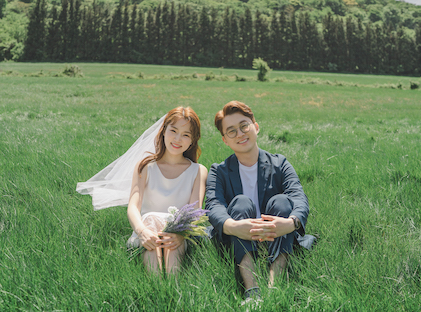
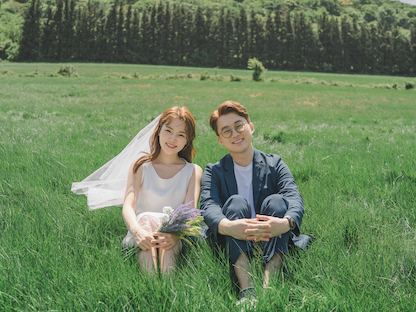
이미지 스케일링

diff --git a/index.html b/index.html
@@ -27,7 +27,7 @@
 </script>
 
 	</head>
-	<body class="is-preload">
+	<body class="is-preload" style="word-break:normal;">
 
 		<!-- Header -->
 			<div id="header">
@@ -88,13 +88,13 @@
 
 				<div class="box container">
 					<h3>예쁜 사진 더 보기</h3>
-					<div class="row" style="padding-top: 25px; padding-left: 30px;">
-						<div class="col-4" style="padding: 0px;"><img src="images/small/DSC06225.jpg" width=100% height=100%/></div>
-						<div class="col-4" style="padding: 0px;"><img src="images/small/DSC05904.jpg" width=100% height=100%/></div>
-						<div class="col-4" style="padding: 0px;"><img src="images/small/DSC03976.jpg" width=100% height=100%/></div>
-						<div class="col-4" style="padding: 0px;"><img src="images/small/DSC03778.jpg" width=100% height=100%/></div>
-						<div class="col-4" style="padding: 0px;"><img src="images/small/DSC06160.jpg" width=100% height=100%/></div>
-						<div class="col-4" style="padding: 0px;"><img src="images/small/DSC05782.jpg" width=100% height=100%/></div>
+					<div class="row" style="padding-top: 25px; padding-left: 20px;">
+						<div class="col-4" style="padding: 0px;"><img src="images/small/DSC06225.jpg" width=100%/></div>
+						<div class="col-4" style="padding: 0px;"><img src="images/small/DSC05904.jpg" width=100%/></div>
+						<div class="col-4" style="padding: 0px;"><img src="images/small/DSC03976.jpg" width=100%/></div>
+						<div class="col-4" style="padding: 0px;"><img src="images/small/DSC03778.jpg" width=100%/></div>
+						<div class="col-4" style="padding: 0px;"><img src="images/small/DSC06160.jpg" width=100%/></div>
+						<div class="col-4" style="padding: 0px;"><img src="images/small/DSC05782.jpg" width=100%/></div>
 					</div>
 
 					<ul class="actions special" style="padding-top:1.5em;">
